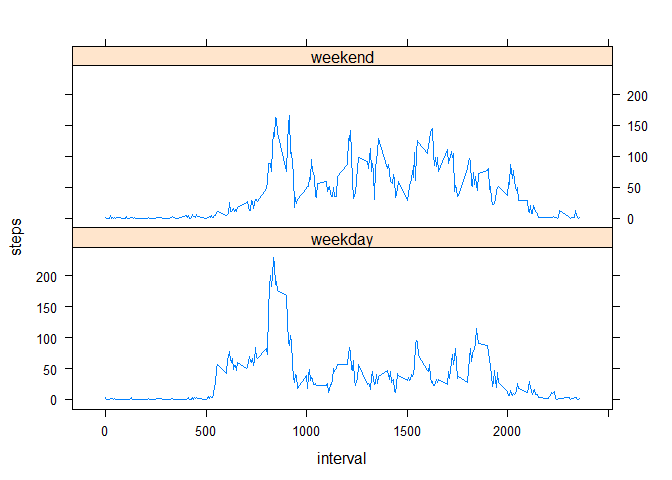
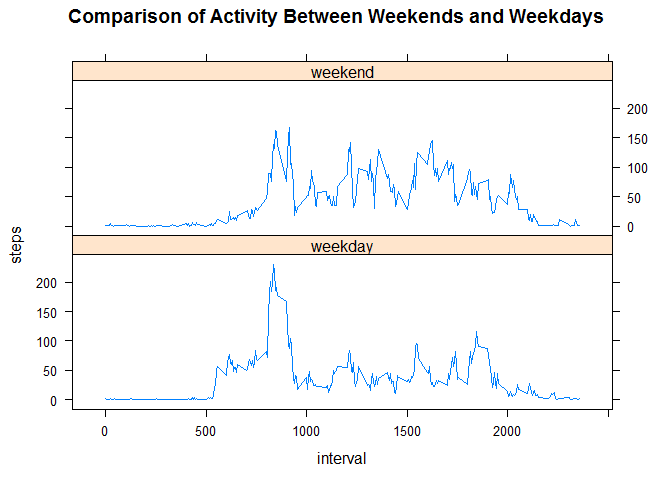
Add title to weekend/weekday plot.

diff --git a/PA1_template.html b/PA1_template.html
@@ -121,8 +121,12 @@ imputedMedian &lt;- median(totalStepsByDay$steps)</code></pre>
 days &lt;- weekdays(as.POSIXlt(imputed$date))
 imputed$dayType &lt;- as.factor(ifelse(days %in% c(&quot;Saturday&quot;, &quot;Sunday&quot;), &quot;weekend&quot;, &quot;weekday&quot;))
 meanStepsByInterval &lt;- aggregate(steps ~ interval + dayType, imputed, &quot;mean&quot;)
-xyplot(steps ~ interval | dayType, data = meanStepsByInterval, type=&quot;l&quot;, layout=c(1,2))</code></pre>
[1 lines of base64/hex data omitted]
+xyplot(steps ~ interval | dayType,
+       data = meanStepsByInterval,
+       main=&quot;Comparison of Activity Between Weekends and Weekdays&quot;,
+       type=&quot;l&quot;,
+       layout=c(1,2))</code></pre>
[1 lines of base64/hex data omitted]
 </div>
 
 

diff --git a/PA1_template.md b/PA1_template.md
@@ -96,7 +96,11 @@ library("lattice")
 days <- weekdays(as.POSIXlt(imputed$date))
 imputed$dayType <- as.factor(ifelse(days %in% c("Saturday", "Sunday"), "weekend", "weekday"))
 meanStepsByInterval <- aggregate(steps ~ interval + dayType, imputed, "mean")
-xyplot(steps ~ interval | dayType, data = meanStepsByInterval, type="l", layout=c(1,2))
+xyplot(steps ~ interval | dayType,
+       data = meanStepsByInterval,
+       main="Comparison of Activity Between Weekends and Weekdays",
+       type="l",
+       layout=c(1,2))
 ```
 
 ![](PA1_template_files/figure-html/unnamed-chunk-6-1.png) 
